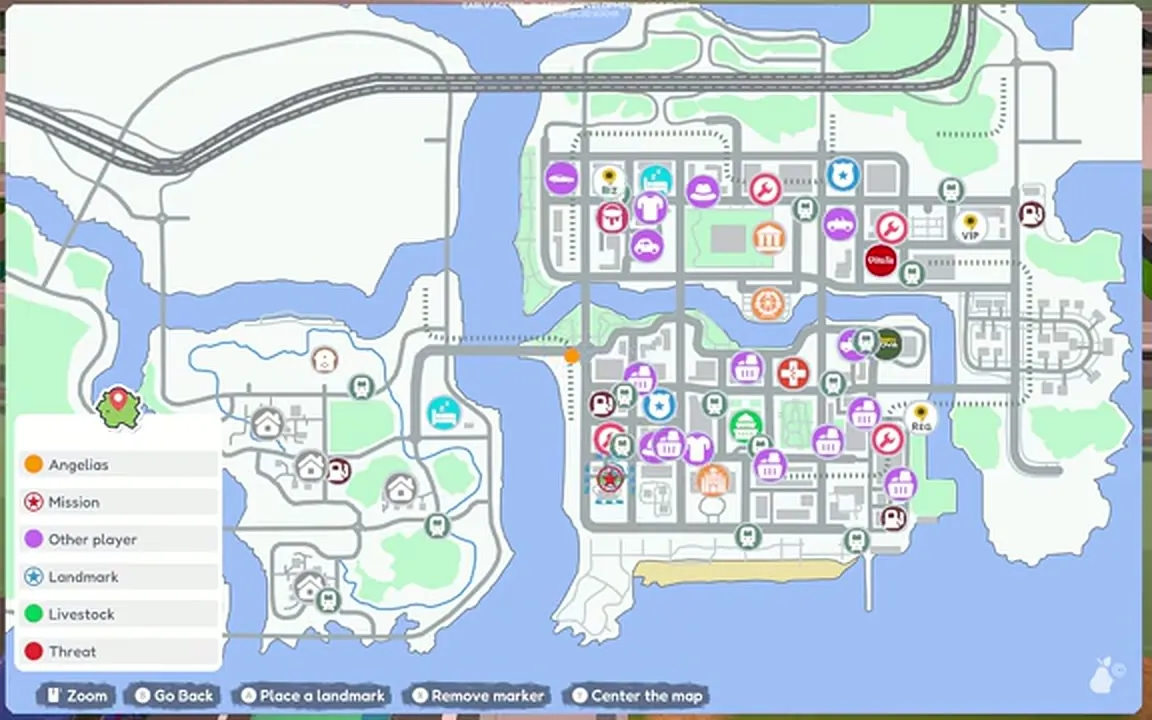
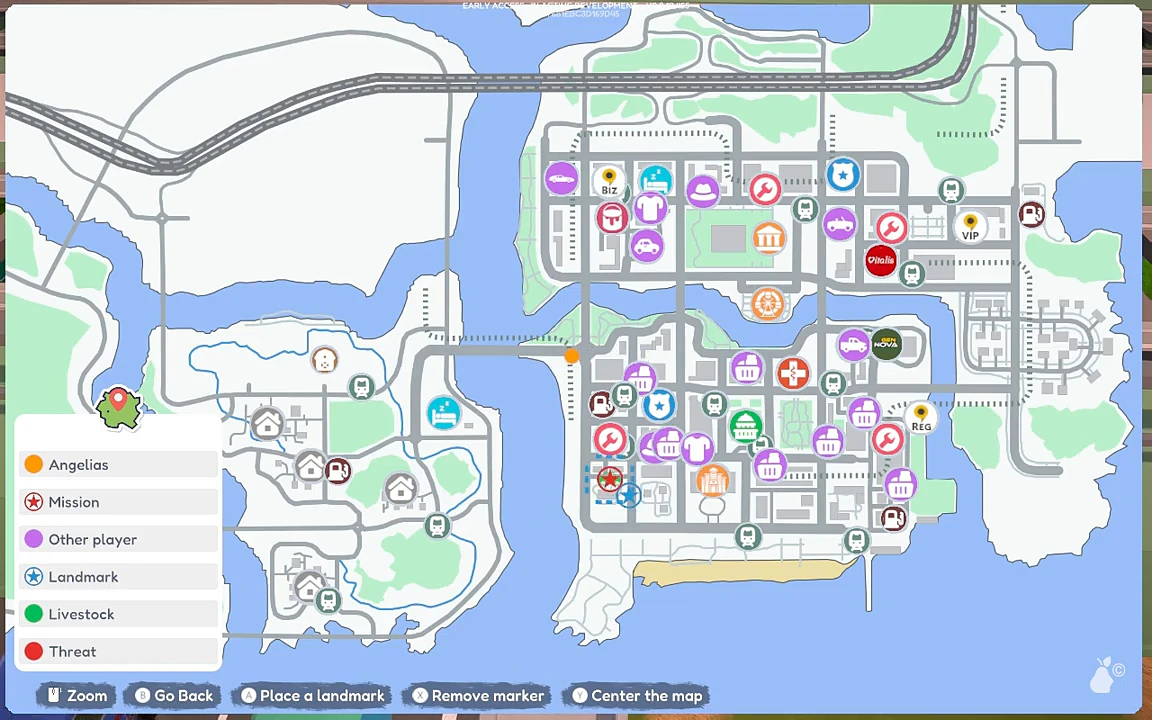
Improve map clarity and evidence layers

diff --git a/zh/map.html b/zh/map.html
@@ -34,19 +34,19 @@
                 <button class="map-zone map-zone-city" type="button" data-map-region="city" data-map-title="东部城区" data-map-status="当前地图区域已确认" data-map-copy="东部网格集中了商店、服务、地铁、停车点和市政地标。" aria-label="聚焦东部城区"><span>东部城区</span></button>
                 <div class="map-marker-layer" data-map-marker-layer aria-label="大致地点标记" hidden>
                 <!-- MAP_MARKERS:START -->
-                <button class="map-marker map-marker-services" type="button" style="--mx:72%;--my:46%" data-marker-category="services" data-marker-title="City Hall 市政厅" data-marker-confidence="大致区域" data-marker-copy="办理土地、合同和高级建造蓝图的市政建筑；官方资料将其放在市中心区域。" data-marker-target="#city-hall" aria-label="大致区域：City Hall"><span>City Hall</span></button>
-                <button class="map-marker map-marker-shopping" type="button" style="--mx:70%;--my:38%" data-marker-category="shopping" data-marker-title="Leafy Market" data-marker-confidence="大致区域" data-marker-copy="出售种子、肥料和食品的连锁商店；官方资料显示市中心周围有多个分店。" data-marker-target="#leafy-market" aria-label="大致区域：Leafy Market"><span>Leafy Market</span></button>
-                <button class="map-marker map-marker-shopping" type="button" style="--mx:66%;--my:43%" data-marker-category="shopping" data-marker-title="Youssef's stand" data-marker-confidence="尚未验证" data-marker-copy="旧 Wiki 线索称 Youssef 的摊位出售种子、肥料和农产品，当前版本位置仍待截图确认。" data-marker-target="#youssefs-stand" aria-label="大致区域：Youssef's stand"><span>Youssef's</span></button>
-                <button class="map-marker map-marker-shopping" type="button" style="--mx:74%;--my:41%" data-marker-category="shopping" data-marker-title="Lina's Tools" data-marker-confidence="大致区域" data-marker-copy="旧 Wiki 线索称 Lina 出售锄头以及工具或武器升级，当前精确店面仍待确认。" data-marker-target="#linas-tools" aria-label="大致区域：Lina's Tools"><span>Lina's Tools</span></button>
-                <button class="map-marker map-marker-shopping" type="button" style="--mx:78%;--my:36%" data-marker-category="shopping" data-marker-title="车辆经销商" data-marker-confidence="大致区域" data-marker-copy="官方更新列出了 Versatile、Star、Prestige 和 Berrari 等城区车辆经销商。" data-marker-target="#vehicle-dealers" aria-label="大致区域：车辆经销商"><span>经销商</span></button>
-                <button class="map-marker map-marker-landmarks" type="button" style="--mx:69%;--my:33%" data-marker-category="landmarks" data-marker-title="The Ranchers Museum" data-marker-confidence="大致区域" data-marker-copy="游戏介绍中出现的官方命名城区地标。" data-marker-target="#museum" aria-label="大致区域：博物馆"><span>博物馆</span></button>
-                <button class="map-marker map-marker-transport" type="button" style="--mx:76%;--my:50%" data-marker-category="transport" data-marker-title="Train station 火车站" data-marker-confidence="大致区域" data-marker-copy="旧 Wiki 将火车站描述为 1-4 人联机加入点；当前具体行为与位置仍需验证。" data-marker-target="#train-station" aria-label="大致区域：火车站"><span>火车站</span></button>
-                <button class="map-marker map-marker-services" type="button" style="--mx:80%;--my:48%" data-marker-category="services" data-marker-title="Wanglow's Garage" data-marker-confidence="尚未验证" data-marker-copy="社区报告中的车辆维修和购买地点，当前版本位置仍待确认。" data-marker-target="#vehicle" aria-label="大致区域：Wanglow's Garage"><span>Wanglow's</span></button>
-                <button class="map-marker map-marker-landmarks" type="button" style="--mx:90%;--my:45%" data-marker-category="landmarks" data-marker-title="The Ranchers Airport" data-marker-confidence="大致区域" data-marker-copy="官方俯视画面把跑道放在东部海岸游乐区域旁。" data-marker-target="#airport" aria-label="大致区域：机场"><span>机场</span></button>
-                <button class="map-marker map-marker-landmarks" type="button" style="--mx:88%;--my:63%" data-marker-category="landmarks" data-marker-title="海岸与野外岛屿" data-marker-confidence="仅区域" data-marker-copy="旧 Wiki 线索描述了可乘游艇到达的野外岛屿、沉船和特殊资源点。" data-marker-target="#coastal-islands" aria-label="大致区域：海岸与岛屿"><span>岛屿</span></button>
-                <button class="map-marker map-marker-landmarks" type="button" style="--mx:20%;--my:30%" data-marker-category="landmarks" data-marker-title="矿区与地下城入口" data-marker-confidence="计划内容" data-marker-copy="官方抢先体验说明把矿洞、战斗与怪物列为后续计划，并未确认当前版本已开放。" data-marker-target="#mines-dungeons" aria-label="大致区域：矿区与地下城"><span>矿区</span></button>
-                <button class="map-marker map-marker-services" type="button" style="--mx:30%;--my:48%" data-marker-category="services" data-marker-title="Cash-In box" data-marker-confidence="尚未验证" data-marker-copy="牧场 Cargo 区域附近的销售收集点；物品放入后在睡觉结算时获得收入。" data-marker-target="/zh/database/crops#cashin" aria-label="大致区域：Cash-In box"><span>Cash-In</span></button>
-                <button class="map-marker map-marker-transport" type="button" style="--mx:68%;--my:47%" data-marker-category="transport" data-marker-title="Bykii terminal" data-marker-confidence="大致区域" data-marker-copy="Victor 修车任务期间使用的自行车租赁终端；任务追踪器已在当前版本画面中出现。" data-marker-target="#bykii-terminal" aria-label="大致区域：Bykii terminal"><span>Bykii</span></button>
+                <button class="map-marker map-marker-services map-marker-area map-marker-evidence-supported" type="button" style="--mx:72%;--my:46%" data-marker-category="services" data-marker-evidence-layer="supported" data-marker-precision="approximate" data-marker-title="City Hall 市政厅" data-marker-confidence="大致区域" data-marker-copy="办理土地、合同和高级建造蓝图的市政建筑；官方资料将其放在市中心区域。" data-marker-target="#city-hall" aria-label="大致区域：City Hall"><span>City Hall</span></button>
+                <button class="map-marker map-marker-shopping map-marker-area map-marker-evidence-supported" type="button" style="--mx:70%;--my:38%" data-marker-category="shopping" data-marker-evidence-layer="supported" data-marker-precision="approximate" data-marker-title="Leafy Market" data-marker-confidence="大致区域" data-marker-copy="出售种子、肥料和食品的连锁商店；官方资料显示市中心周围有多个分店。" data-marker-target="#leafy-market" aria-label="大致区域：Leafy Market"><span>Leafy Market</span></button>
+                <button class="map-marker map-marker-shopping map-marker-area map-marker-evidence-reported" type="button" style="--mx:66%;--my:43%" data-marker-category="shopping" data-marker-evidence-layer="reported" data-marker-precision="unverified" data-marker-title="Youssef's stand" data-marker-confidence="尚未验证" data-marker-copy="旧 Wiki 线索称 Youssef 的摊位出售种子、肥料和农产品，当前版本位置仍待截图确认。" data-marker-target="#youssefs-stand" aria-label="大致区域：Youssef's stand"><span>Youssef's</span></button>
+                <button class="map-marker map-marker-shopping map-marker-area map-marker-evidence-reported" type="button" style="--mx:74%;--my:41%" data-marker-category="shopping" data-marker-evidence-layer="reported" data-marker-precision="approximate" data-marker-title="Lina's Tools" data-marker-confidence="大致区域" data-marker-copy="旧 Wiki 线索称 Lina 出售锄头以及工具或武器升级，当前精确店面仍待确认。" data-marker-target="#linas-tools" aria-label="大致区域：Lina's Tools"><span>Lina's Tools</span></button>
+                <button class="map-marker map-marker-shopping map-marker-area map-marker-evidence-reported" type="button" style="--mx:78%;--my:36%" data-marker-category="shopping" data-marker-evidence-layer="reported" data-marker-precision="approximate" data-marker-title="车辆经销商" data-marker-confidence="大致区域" data-marker-copy="官方更新列出了 Versatile、Star、Prestige 和 Berrari 等城区车辆经销商。" data-marker-target="#vehicle-dealers" aria-label="大致区域：车辆经销商"><span>经销商</span></button>
+                <button class="map-marker map-marker-landmarks map-marker-area map-marker-evidence-reported" type="button" style="--mx:69%;--my:33%" data-marker-category="landmarks" data-marker-evidence-layer="reported" data-marker-precision="approximate" data-marker-title="The Ranchers Museum" data-marker-confidence="大致区域" data-marker-copy="游戏介绍中出现的官方命名城区地标。" data-marker-target="#museum" aria-label="大致区域：博物馆"><span>博物馆</span></button>
+                <button class="map-marker map-marker-transport map-marker-area map-marker-evidence-reported" type="button" style="--mx:76%;--my:50%" data-marker-category="transport" data-marker-evidence-layer="reported" data-marker-precision="approximate" data-marker-title="Train station 火车站" data-marker-confidence="大致区域" data-marker-copy="旧 Wiki 将火车站描述为 1-4 人联机加入点；当前具体行为与位置仍需验证。" data-marker-target="#train-station" aria-label="大致区域：火车站"><span>火车站</span></button>
+                <button class="map-marker map-marker-services map-marker-area map-marker-evidence-reported" type="button" style="--mx:80%;--my:48%" data-marker-category="services" data-marker-evidence-layer="reported" data-marker-precision="unverified" data-marker-title="Wanglow's Garage" data-marker-confidence="尚未验证" data-marker-copy="社区报告中的车辆维修和购买地点，当前版本位置仍待确认。" data-marker-target="#vehicle" aria-label="大致区域：Wanglow's Garage"><span>Wanglow's</span></button>
+                <button class="map-marker map-marker-landmarks map-marker-area map-marker-evidence-supported" type="button" style="--mx:90%;--my:45%" data-marker-category="landmarks" data-marker-evidence-layer="supported" data-marker-precision="approximate" data-marker-title="The Ranchers Airport" data-marker-confidence="大致区域" data-marker-copy="官方俯视画面把跑道放在东部海岸游乐区域旁。" data-marker-target="#airport" aria-label="大致区域：机场"><span>机场</span></button>
+                <button class="map-marker map-marker-landmarks map-marker-area map-marker-evidence-reported" type="button" style="--mx:88%;--my:63%" data-marker-category="landmarks" data-marker-evidence-layer="reported" data-marker-precision="region-only" data-marker-title="海岸与野外岛屿" data-marker-confidence="仅区域" data-marker-copy="旧 Wiki 线索描述了可乘游艇到达的野外岛屿、沉船和特殊资源点。" data-marker-target="#coastal-islands" aria-label="大致区域：海岸与岛屿"><span>岛屿</span></button>
+                <button class="map-marker map-marker-landmarks map-marker-area map-marker-evidence-planned" type="button" style="--mx:20%;--my:30%" data-marker-category="landmarks" data-marker-evidence-layer="planned" data-marker-precision="planned" data-marker-title="矿区与地下城入口" data-marker-confidence="计划内容" data-marker-copy="官方抢先体验说明把矿洞、战斗与怪物列为后续计划，并未确认当前版本已开放。" data-marker-target="#mines-dungeons" aria-label="大致区域：矿区与地下城"><span>矿区</span></button>
+                <button class="map-marker map-marker-services map-marker-area map-marker-evidence-reported" type="button" style="--mx:30%;--my:48%" data-marker-category="services" data-marker-evidence-layer="reported" data-marker-precision="unverified" data-marker-title="Cash-In box" data-marker-confidence="尚未验证" data-marker-copy="牧场 Cargo 区域附近的销售收集点；物品放入后在睡觉结算时获得收入。" data-marker-target="/zh/database/crops#cashin" aria-label="大致区域：Cash-In box"><span>Cash-In</span></button>
+                <button class="map-marker map-marker-transport map-marker-area map-marker-evidence-reported" type="button" style="--mx:68%;--my:47%" data-marker-category="transport" data-marker-evidence-layer="reported" data-marker-precision="approximate" data-marker-title="Bykii terminal" data-marker-confidence="大致区域" data-marker-copy="Victor 修车任务期间使用的自行车租赁终端；任务追踪器已在当前版本画面中出现。" data-marker-target="#bykii-terminal" aria-label="大致区域：Bykii terminal"><span>Bykii</span></button>
                 <!-- MAP_MARKERS:END -->
                 </div>
                 <div class="map-pin-layer" data-map-pin-layer aria-hidden="false"></div>
@@ -54,7 +54,8 @@
             </figure>
             <form class="map-pin-submit" data-map-pin-form hidden aria-labelledby="map-pin-form-title"><button type="button" class="map-pin-close" data-map-pin-close aria-label="取消并关闭">×</button><div class="section-head"><span class="kicker">标记地点</span><h3 id="map-pin-form-title">提交地图地点</h3><p>点击地图放置标记，拖动微调，再说明这里是什么。提交后需人工审核才会成为指南数据。</p></div><label>地点名称<input data-map-pin-name required maxlength="60" placeholder="例如：Leafy Market 北部分店"></label><label>分类<select data-map-pin-category><option value="">选择分类</option><option>商店或服务</option><option>交通</option><option>地标</option><option>其他</option></select></label><label>备注 <span class="optional">可选</span><textarea data-map-pin-notes rows="3" placeholder="这里有什么？玩家应辨认什么？"></textarea></label><p class="map-pin-coords" data-map-pin-coords>地图位置：—</p><button class="btn" type="submit">打开邮件草稿</button></form>
             <div class="map-place-shortcuts" aria-label="详细地图区域"><span>聚焦：</span><button type="button" data-location-map data-map-region="city-north" data-map-title="北部城区商店" data-map-status="当前地图详细区域" data-map-copy="北部网格集中着购物、服装、车辆和地标图标。先按图标形状定位，再在游戏中确认店面。">北部商店</button><button type="button" data-location-map data-map-region="city-center" data-map-title="市中心服务区" data-map-status="当前地图详细区域" data-map-copy="主桥东端附近集中了市政、医疗、停车和交通图标。">市政服务</button><button type="button" data-location-map data-map-region="city-south" data-map-title="南部商业网格" data-map-status="当前地图详细区域" data-map-copy="南部网格包含多家商店、服务图标、停车点和沿海道路。">南部商店</button><button type="button" data-location-map data-map-region="east-coast" data-map-title="东部海岸入口" data-map-status="区域级路线线索" data-map-copy="最东侧道路和海岸线构成机场接近区域；当前截图无法读出精确机场标签。">机场海岸</button></div>
-            <div class="map-pin-controls" aria-label="地点标记筛选"><span class="map-pin-controls-label">显示标记：</span><button class="active" type="button" data-map-pin-filter="none" aria-pressed="true">关闭</button><button type="button" data-map-pin-filter="shopping" aria-pressed="false">购物</button><button type="button" data-map-pin-filter="services" aria-pressed="false">服务</button><button type="button" data-map-pin-filter="transport" aria-pressed="false">交通</button><button type="button" data-map-pin-filter="landmarks" aria-pressed="false">地标</button><button type="button" data-map-pin-filter="all" aria-pressed="false">全部</button></div>
+            <div class="map-pin-controls" aria-label="指南区域分类筛选"><span class="map-pin-controls-label">指南区域：</span><button class="active" type="button" data-map-pin-filter="none" aria-pressed="true">关闭</button><button type="button" data-map-pin-filter="shopping" aria-pressed="false">购物</button><button type="button" data-map-pin-filter="services" aria-pressed="false">服务</button><button type="button" data-map-pin-filter="transport" aria-pressed="false">交通</button><button type="button" data-map-pin-filter="landmarks" aria-pressed="false">地标</button><button type="button" data-map-pin-filter="all" aria-pressed="false">全部</button></div>
+            <div class="map-pin-controls map-evidence-controls" aria-label="指南区域证据图层"><span class="map-pin-controls-label">证据图层：</span><button class="active" type="button" data-map-evidence-filter="supported" aria-pressed="true">来源支持</button><button type="button" data-map-evidence-filter="reported" aria-pressed="false">社区估算</button><button type="button" data-map-evidence-filter="planned" aria-pressed="false">计划内容</button><button type="button" data-map-evidence-filter="all" aria-pressed="false">全部证据</button></div>
             <ul class="map-legend" aria-label="地图图例"><li><span class="map-legend-dot map-legend-shopping"></span>购物</li><li><span class="map-legend-dot map-legend-services"></span>服务</li><li><span class="map-legend-dot map-legend-transport"></span>交通</li><li><span class="map-legend-dot map-legend-landmarks"></span>地标</li></ul>
             <div class="map-confidence" aria-label="地点定位可信度"><p><strong>标记精度</strong><span>指南标记用于缩小寻找范围，并非游戏内精确坐标。</span></p><dl><div><dt>大致位置</dt><dd>区域已知，坐标估算</dd></div><div><dt>仅区域</dt><dd>只确认较大范围</dd></div><div><dt>待验证</dt><dd>名称有来源，位置未定</dd></div><div><dt>计划内容</dt><dd>后续内容，当前未开放</dd></div></dl></div>
           </div>

diff --git a/map.html b/map.html
@@ -44,19 +44,19 @@
               <button class="map-zone map-zone-city" type="button" data-map-region="city" data-map-title="Eastern city district" data-map-status="Current map area verified" data-map-copy="The eastern grid contains the highest concentration of shops, services, subway stops, parking and civic landmarks." aria-label="Focus eastern city district"><span>City east</span></button>
               <div class="map-marker-layer" data-map-marker-layer aria-label="Approximate location pins" hidden>
                 <!-- MAP_MARKERS:START -->
-                <button class="map-marker map-marker-services" type="button" style="--mx:72%;--my:46%" data-marker-category="services" data-marker-title="City Hall" data-marker-confidence="Approximate" data-marker-copy="Civic district building for land purchases and advanced blueprints; officially placed in the city center." data-marker-target="#city-hall" aria-label="Approximate area: City Hall"><span>City Hall</span></button>
-                <button class="map-marker map-marker-shopping" type="button" style="--mx:70%;--my:38%" data-marker-category="shopping" data-marker-title="Leafy Market" data-marker-confidence="Approximate" data-marker-copy="Grocery chain with seeds and farming supplies; official material shows multiple city-center branches." data-marker-target="#leafy-market" aria-label="Approximate area: Leafy Market"><span>Leafy Market</span></button>
-                <button class="map-marker map-marker-shopping" type="button" style="--mx:66%;--my:43%" data-marker-category="shopping" data-marker-title="Youssef's stand" data-marker-confidence="Unverified" data-marker-copy="Fan wiki places Youssef's seed, fertilizer and produce stand near the clothing store, marked by a basket icon." data-marker-target="#youssefs-stand" aria-label="Approximate area: Youssef's stand"><span>Youssef's</span></button>
-                <button class="map-marker map-marker-shopping" type="button" style="--mx:74%;--my:41%" data-marker-category="shopping" data-marker-title="Lina's Tools" data-marker-confidence="Approximate" data-marker-copy="Fan wiki: Lina sells hoes and tool/weapon upgrades in the city shopping area." data-marker-target="#linas-tools" aria-label="Approximate area: Lina's Tools"><span>Lina's Tools</span></button>
-                <button class="map-marker map-marker-shopping" type="button" style="--mx:78%;--my:36%" data-marker-category="shopping" data-marker-title="Vehicle dealerships" data-marker-confidence="Approximate" data-marker-copy="Official updates name Versatile, Star, Prestige and Berrari dealerships in the city shopping grid." data-marker-target="#vehicle-dealers" aria-label="Approximate area: Vehicle dealerships"><span>Dealers</span></button>
-                <button class="map-marker map-marker-landmarks" type="button" style="--mx:69%;--my:33%" data-marker-category="landmarks" data-marker-title="The Ranchers Museum" data-marker-confidence="Approximate" data-marker-copy="Officially named city landmark seen in the introduction." data-marker-target="#museum" aria-label="Approximate area: The Ranchers Museum"><span>Museum</span></button>
-                <button class="map-marker map-marker-transport" type="button" style="--mx:76%;--my:50%" data-marker-category="transport" data-marker-title="Train station" data-marker-confidence="Approximate" data-marker-copy="Fan wiki: the train station is the seamless drop-in point for 1-4 player co-op sessions." data-marker-target="#train-station" aria-label="Approximate area: Train station"><span>Train stn</span></button>
-                <button class="map-marker map-marker-services" type="button" style="--mx:80%;--my:48%" data-marker-category="services" data-marker-title="Wanglow's Garage" data-marker-confidence="Unverified" data-marker-copy="Community-reported vehicle repair and purchase garage; needs current-build verification." data-marker-target="#wanglows-garage" aria-label="Approximate area: Wanglow's Garage"><span>Wanglow's</span></button>
-                <button class="map-marker map-marker-landmarks" type="button" style="--mx:90%;--my:45%" data-marker-category="landmarks" data-marker-title="The Ranchers Airport" data-marker-confidence="Approximate" data-marker-copy="Official aerial reference places the runway on the eastern coast beside the amusement area." data-marker-target="#airport" aria-label="Approximate area: The Ranchers Airport"><span>Airport</span></button>
-                <button class="map-marker map-marker-landmarks" type="button" style="--mx:88%;--my:63%" data-marker-category="landmarks" data-marker-title="Coastal zones & wild islands" data-marker-confidence="Region only" data-marker-copy="Fan wiki: yacht-reachable wild islands with shipwrecks and unique resource spots off the coast." data-marker-target="#coastal-islands" aria-label="Approximate area: Coastal zones and wild islands"><span>Islands</span></button>
-                <button class="map-marker map-marker-landmarks" type="button" style="--mx:20%;--my:30%" data-marker-category="landmarks" data-marker-title="Mines & dungeon entrances" data-marker-confidence="Planned" data-marker-copy="Official EA launch notes list mines, combat and monsters as planned upcoming features, not confirmed accessible in the current build; forested-hills surface ore is fan-wiki reported only." data-marker-target="#mines-dungeons" aria-label="Approximate area: Mines and dungeon entrances"><span>Mines</span></button>
-                <button class="map-marker map-marker-services" type="button" style="--mx:30%;--my:48%" data-marker-category="services" data-marker-title="Cash-In box" data-marker-confidence="Unverified" data-marker-copy="Fan wiki: early-game sale collection point near the cargo platform; earnings arrive after you sleep." data-marker-target="#cash-in-box" aria-label="Approximate area: Cash-In box"><span>Cash-In</span></button>
-                <button class="map-marker map-marker-transport" type="button" style="--mx:68%;--my:47%" data-marker-category="transport" data-marker-title="Bykii terminal" data-marker-confidence="Approximate" data-marker-copy="Bicycle rental terminal used while Victor's car is repaired. Existence: quest tracker referencing Bykii observed in V0.8.10.455 footage (Games Station, 24:57). Pin position: fan-wiki estimate only." data-marker-target="#bykii-terminal" aria-label="Approximate area: Bykii terminal"><span>Bykii</span></button>
+                <button class="map-marker map-marker-services map-marker-area map-marker-evidence-supported" type="button" style="--mx:72%;--my:46%" data-marker-category="services" data-marker-evidence-layer="supported" data-marker-precision="approximate" data-marker-title="City Hall" data-marker-confidence="Approximate" data-marker-copy="Civic district building for land purchases and advanced blueprints; officially placed in the city center." data-marker-target="#city-hall" aria-label="Approximate area: City Hall"><span>City Hall</span></button>
+                <button class="map-marker map-marker-shopping map-marker-area map-marker-evidence-supported" type="button" style="--mx:70%;--my:38%" data-marker-category="shopping" data-marker-evidence-layer="supported" data-marker-precision="approximate" data-marker-title="Leafy Market" data-marker-confidence="Approximate" data-marker-copy="Grocery chain with seeds and farming supplies; official material shows multiple city-center branches." data-marker-target="#leafy-market" aria-label="Approximate area: Leafy Market"><span>Leafy Market</span></button>
+                <button class="map-marker map-marker-shopping map-marker-area map-marker-evidence-reported" type="button" style="--mx:66%;--my:43%" data-marker-category="shopping" data-marker-evidence-layer="reported" data-marker-precision="unverified" data-marker-title="Youssef's stand" data-marker-confidence="Unverified" data-marker-copy="Fan wiki places Youssef's seed, fertilizer and produce stand near the clothing store, marked by a basket icon." data-marker-target="#youssefs-stand" aria-label="Approximate area: Youssef's stand"><span>Youssef's</span></button>
+                <button class="map-marker map-marker-shopping map-marker-area map-marker-evidence-reported" type="button" style="--mx:74%;--my:41%" data-marker-category="shopping" data-marker-evidence-layer="reported" data-marker-precision="approximate" data-marker-title="Lina's Tools" data-marker-confidence="Approximate" data-marker-copy="Fan wiki: Lina sells hoes and tool/weapon upgrades in the city shopping area." data-marker-target="#linas-tools" aria-label="Approximate area: Lina's Tools"><span>Lina's Tools</span></button>
+                <button class="map-marker map-marker-shopping map-marker-area map-marker-evidence-reported" type="button" style="--mx:78%;--my:36%" data-marker-category="shopping" data-marker-evidence-layer="reported" data-marker-precision="approximate" data-marker-title="Vehicle dealerships" data-marker-confidence="Approximate" data-marker-copy="Official updates name Versatile, Star, Prestige and Berrari dealerships in the city shopping grid." data-marker-target="#vehicle-dealers" aria-label="Approximate area: Vehicle dealerships"><span>Dealers</span></button>
+                <button class="map-marker map-marker-landmarks map-marker-area map-marker-evidence-reported" type="button" style="--mx:69%;--my:33%" data-marker-category="landmarks" data-marker-evidence-layer="reported" data-marker-precision="approximate" data-marker-title="The Ranchers Museum" data-marker-confidence="Approximate" data-marker-copy="Officially named city landmark seen in the introduction." data-marker-target="#museum" aria-label="Approximate area: The Ranchers Museum"><span>Museum</span></button>
+                <button class="map-marker map-marker-transport map-marker-area map-marker-evidence-reported" type="button" style="--mx:76%;--my:50%" data-marker-category="transport" data-marker-evidence-layer="reported" data-marker-precision="approximate" data-marker-title="Train station" data-marker-confidence="Approximate" data-marker-copy="Fan wiki: the train station is the seamless drop-in point for 1-4 player co-op sessions." data-marker-target="#train-station" aria-label="Approximate area: Train station"><span>Train stn</span></button>
+                <button class="map-marker map-marker-services map-marker-area map-marker-evidence-reported" type="button" style="--mx:80%;--my:48%" data-marker-category="services" data-marker-evidence-layer="reported" data-marker-precision="unverified" data-marker-title="Wanglow's Garage" data-marker-confidence="Unverified" data-marker-copy="Community-reported vehicle repair and purchase garage; needs current-build verification." data-marker-target="#wanglows-garage" aria-label="Approximate area: Wanglow's Garage"><span>Wanglow's</span></button>
+                <button class="map-marker map-marker-landmarks map-marker-area map-marker-evidence-supported" type="button" style="--mx:90%;--my:45%" data-marker-category="landmarks" data-marker-evidence-layer="supported" data-marker-precision="approximate" data-marker-title="The Ranchers Airport" data-marker-confidence="Approximate" data-marker-copy="Official aerial reference places the runway on the eastern coast beside the amusement area." data-marker-target="#airport" aria-label="Approximate area: The Ranchers Airport"><span>Airport</span></button>
+                <button class="map-marker map-marker-landmarks map-marker-area map-marker-evidence-reported" type="button" style="--mx:88%;--my:63%" data-marker-category="landmarks" data-marker-evidence-layer="reported" data-marker-precision="region-only" data-marker-title="Coastal zones & wild islands" data-marker-confidence="Region only" data-marker-copy="Fan wiki: yacht-reachable wild islands with shipwrecks and unique resource spots off the coast." data-marker-target="#coastal-islands" aria-label="Approximate area: Coastal zones and wild islands"><span>Islands</span></button>
+                <button class="map-marker map-marker-landmarks map-marker-area map-marker-evidence-planned" type="button" style="--mx:20%;--my:30%" data-marker-category="landmarks" data-marker-evidence-layer="planned" data-marker-precision="planned" data-marker-title="Mines & dungeon entrances" data-marker-confidence="Planned" data-marker-copy="Official EA launch notes list mines, combat and monsters as planned upcoming features, not confirmed accessible in the current build; forested-hills surface ore is fan-wiki reported only." data-marker-target="#mines-dungeons" aria-label="Approximate area: Mines and dungeon entrances"><span>Mines</span></button>
+                <button class="map-marker map-marker-services map-marker-area map-marker-evidence-reported" type="button" style="--mx:30%;--my:48%" data-marker-category="services" data-marker-evidence-layer="reported" data-marker-precision="unverified" data-marker-title="Cash-In box" data-marker-confidence="Unverified" data-marker-copy="Fan wiki: early-game sale collection point near the cargo platform; earnings arrive after you sleep." data-marker-target="#cash-in-box" aria-label="Approximate area: Cash-In box"><span>Cash-In</span></button>
+                <button class="map-marker map-marker-transport map-marker-area map-marker-evidence-reported" type="button" style="--mx:68%;--my:47%" data-marker-category="transport" data-marker-evidence-layer="reported" data-marker-precision="approximate" data-marker-title="Bykii terminal" data-marker-confidence="Approximate" data-marker-copy="Bicycle rental terminal used while Victor's car is repaired. Existence: quest tracker referencing Bykii observed in V0.8.10.455 footage (Games Station, 24:57). Pin position: fan-wiki estimate only." data-marker-target="#bykii-terminal" aria-label="Approximate area: Bykii terminal"><span>Bykii</span></button>
                 <!-- MAP_MARKERS:END -->
               </div>
               <div class="map-pin-layer" data-map-pin-layer aria-hidden="false"></div>
@@ -73,14 +73,21 @@
             </form>
             <div class="map-place-shortcuts" aria-label="Detailed map areas"><span>Focus:</span><button type="button" data-location-map data-map-region="city-north" data-map-title="Northern city shops" data-map-status="Detailed current-map area" data-map-copy="The northern grid has a dense cluster of shopping, clothing, vehicle and landmark icons. Use the map icon shape, then confirm the storefront in game.">North shops</button><button type="button" data-location-map data-map-region="city-center" data-map-title="Central city services" data-map-status="Detailed current-map area" data-map-copy="The central grid contains civic, medical, parking and transport icons around the east end of the main bridge.">City services</button><button type="button" data-location-map data-map-region="city-south" data-map-title="Southern commercial grid" data-map-status="Detailed current-map area" data-map-copy="The southern grid contains multiple shops, service icons, parking and the coastal road.">South shops</button><button type="button" data-location-map data-map-region="east-coast" data-map-title="Eastern coastal approach" data-map-status="Area-level route clue" data-map-copy="The far-eastern road network and coastline form the airport approach area. The current capture does not expose a readable airport label.">Airport coast</button></div>
             <p class="map-source-note">Frame from <a href="https://www.youtube.com/watch?v=GrFiYqWcBK0&amp;t=1695s" rel="noopener noreferrer">Games Station's August 2 gameplay walkthrough at 28:15</a>. Cropped only for the map view; location claims below are graded separately.</p>
-            <div class="map-pin-controls" aria-label="Approximate pin filters">
-              <span class="map-pin-controls-label">Show pins:</span>
+            <div class="map-pin-controls" aria-label="Guide area category filters">
+              <span class="map-pin-controls-label">Guide areas:</span>
               <button class="active" type="button" data-map-pin-filter="none" aria-pressed="true">Off</button>
               <button type="button" data-map-pin-filter="shopping" aria-pressed="false">Shopping</button>
               <button type="button" data-map-pin-filter="services" aria-pressed="false">Services</button>
               <button type="button" data-map-pin-filter="transport" aria-pressed="false">Transport</button>
               <button type="button" data-map-pin-filter="landmarks" aria-pressed="false">Landmarks</button>
               <button type="button" data-map-pin-filter="all" aria-pressed="false">All</button>
+            </div>
+            <div class="map-pin-controls map-evidence-controls" aria-label="Guide area evidence layers">
+              <span class="map-pin-controls-label">Evidence layer:</span>
+              <button class="active" type="button" data-map-evidence-filter="supported" aria-pressed="true">Source-backed</button>
+              <button type="button" data-map-evidence-filter="reported" aria-pressed="false">Community estimate</button>
+              <button type="button" data-map-evidence-filter="planned" aria-pressed="false">Planned</button>
+              <button type="button" data-map-evidence-filter="all" aria-pressed="false">All evidence</button>
             </div>
             <ul class="map-legend" aria-label="Map pin legend">
               <li><span class="map-legend-dot map-legend-shopping"></span>Shopping</li>

diff --git a/assets/js/map.js b/assets/js/map.js
@@ -20,6 +20,7 @@
   var markerLayer = document.querySelector("[data-map-marker-layer]");
   var markers = markerLayer ? Array.from(markerLayer.querySelectorAll("[data-marker-category]")) : [];
   var markerFilterButtons = Array.from(document.querySelectorAll("[data-map-pin-filter]"));
+  var evidenceFilterButtons = Array.from(document.querySelectorAll("[data-map-evidence-filter]"));
   var inspectorLink = inspector ? inspector.querySelector("[data-map-inspector-link]") : null;
   var pinLayer = document.querySelector("[data-map-pin-layer]");
   var pinForm = document.querySelector("[data-map-pin-form]");
@@ -127,22 +128,47 @@
     });
   });
 
-  function applyMarkerFilter(filter) {
-    if (markerLayer) markerLayer.hidden = filter === "none";
+  var activeCategoryFilter = "none";
+  var activeEvidenceFilter = "supported";
+
+  function renderMarkerLayers() {
+    if (markerLayer) markerLayer.hidden = activeCategoryFilter === "none";
     markerFilterButtons.forEach(function (button) {
-      var active = button.dataset.mapPinFilter === filter;
+      var active = button.dataset.mapPinFilter === activeCategoryFilter;
+      button.classList.toggle("active", active);
+      button.setAttribute("aria-pressed", active ? "true" : "false");
+    });
+    evidenceFilterButtons.forEach(function (button) {
+      var active = button.dataset.mapEvidenceFilter === activeEvidenceFilter;
       button.classList.toggle("active", active);
       button.setAttribute("aria-pressed", active ? "true" : "false");
     });
     markers.forEach(function (marker) {
-      marker.hidden = filter === "none" || (filter !== "all" && marker.dataset.markerCategory !== filter);
+      var categoryHidden = activeCategoryFilter === "none" || (activeCategoryFilter !== "all" && marker.dataset.markerCategory !== activeCategoryFilter);
+      var evidenceHidden = activeEvidenceFilter !== "all" && marker.dataset.markerEvidenceLayer !== activeEvidenceFilter;
+      marker.hidden = categoryHidden || evidenceHidden;
       if (marker.hidden) marker.classList.remove("active");
     });
+  }
+
+  function applyMarkerFilter(filter) {
+    activeCategoryFilter = filter;
+    renderMarkerLayers();
+  }
+
+  function applyEvidenceFilter(filter) {
+    activeEvidenceFilter = filter;
+    renderMarkerLayers();
   }
 
   markerFilterButtons.forEach(function (button) {
     button.addEventListener("click", function () {
       applyMarkerFilter(button.dataset.mapPinFilter);
+    });
+  });
+  evidenceFilterButtons.forEach(function (button) {
+    button.addEventListener("click", function () {
+      applyEvidenceFilter(button.dataset.mapEvidenceFilter);
     });
   });
   applyMarkerFilter("none");
@@ -196,6 +222,7 @@
       if (!marker) return;
       var mx = parseFloat(marker.style.getPropertyValue("--mx"));
       var my = parseFloat(marker.style.getPropertyValue("--my"));
+      applyEvidenceFilter(marker.dataset.markerEvidenceLayer);
       applyMarkerFilter(marker.dataset.markerCategory);
       viewState = window.RanchersMapViewer.focus(mx, my, 2.6);
       applyMapView();
@@ -387,7 +414,7 @@
   }
 
   function isMapControl(target) {
-    return !!target.closest("[data-map-region], [data-map-pan], [data-map-zoom], [data-location-map], [data-map-pin-filter], .map-pin, .map-marker");
+    return !!target.closest("[data-map-region], [data-map-pan], [data-map-zoom], [data-location-map], [data-map-pin-filter], [data-map-evidence-filter], .map-pin, .map-marker");
   }
 
   if (mapStage) {

diff --git a/assets/css/style.css b/assets/css/style.css
@@ -1537,39 +1537,50 @@ table.data-table {
   pointer-events: none;
 }
 .map-marker {
+  --marker-color: var(--green-600);
   position: absolute;
   left: var(--mx, 50%);
   top: var(--my, 50%);
-  min-width: 24px;
-  min-height: 24px;
-  width: 26px;
-  height: 26px;
+  min-width: 34px;
+  min-height: 34px;
+  width: 34px;
+  height: 34px;
   padding: 0;
-  margin: -13px 0 0 -13px;
-  border: 2px solid #fff;
-  border-radius: 50% 50% 50% 0;
-  background: var(--green-500);
-  transform: rotate(-45deg) scale(calc(1 / var(--map-scale, 1)));
+  margin: -17px 0 0 -17px;
+  border: 3px solid #fff;
+  border-radius: 50%;
+  background: color-mix(in srgb, var(--marker-color) 24%, transparent);
+  transform: scale(calc(1 / var(--map-scale, 1)));
   transform-origin: center;
   cursor: pointer;
   pointer-events: auto;
   touch-action: manipulation;
-  box-shadow: 0 1px 4px rgba(0, 0, 0, 0.35);
+  box-shadow: 0 0 0 3px var(--marker-color), 0 2px 7px rgba(0, 0, 0, 0.34);
 }
 .map-marker::after {
   content: "";
   position: absolute;
   left: 50%;
   top: 50%;
-  width: 7px;
-  height: 7px;
+  width: 8px;
+  height: 8px;
   border-radius: 50%;
-  background: #fff;
+  background: var(--marker-color);
   transform: translate(-50%, -50%);
 }
-.map-marker-services { background: #315b83; }
-.map-marker-transport { background: #b3552e; }
-.map-marker-landmarks { background: #6b4d8f; }
+.map-marker-services { --marker-color: #315b83; }
+.map-marker-transport { --marker-color: #b3552e; }
+.map-marker-landmarks { --marker-color: #6b4d8f; }
+.map-marker-evidence-reported { border-style: dashed; opacity: 0.9; }
+.map-marker-evidence-planned {
+  width: 46px;
+  height: 46px;
+  min-width: 46px;
+  min-height: 46px;
+  margin: -23px 0 0 -23px;
+  border-style: dotted;
+  opacity: 0.78;
+}
 .map-marker span {
   position: absolute;
   left: 50%;
@@ -1581,7 +1592,7 @@ table.data-table {
   font-size: 0.62rem;
   font-weight: 800;
   white-space: nowrap;
-  transform: translateX(-50%) rotate(45deg);
+  transform: translateX(-50%);
   transform-origin: bottom left;
   opacity: 0;
   pointer-events: none;
